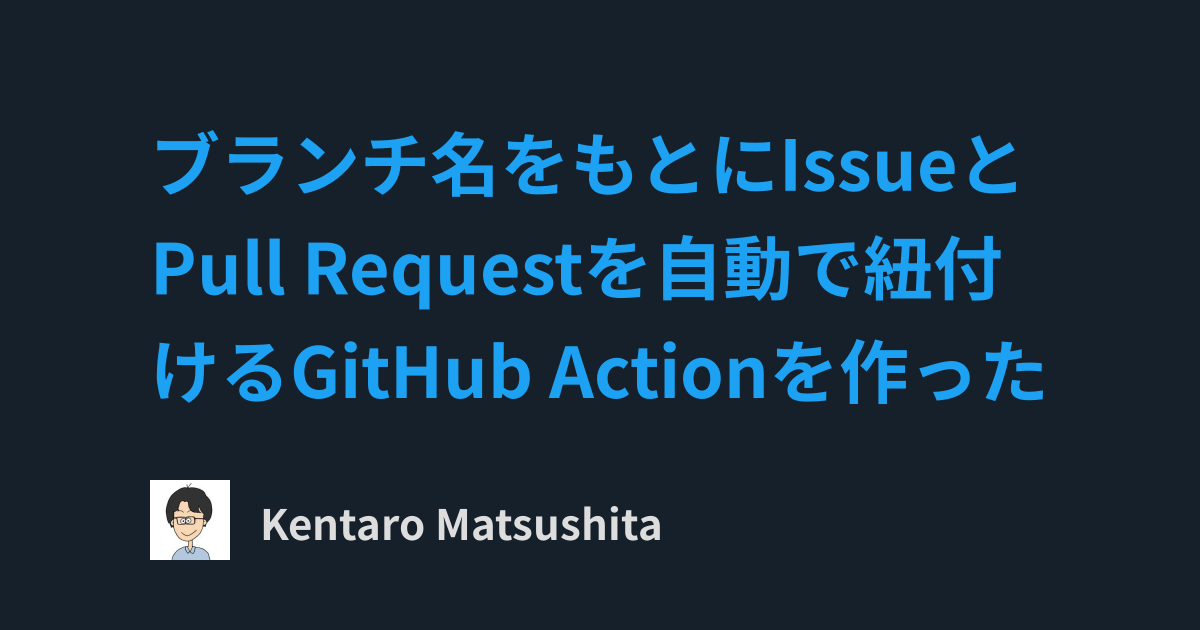
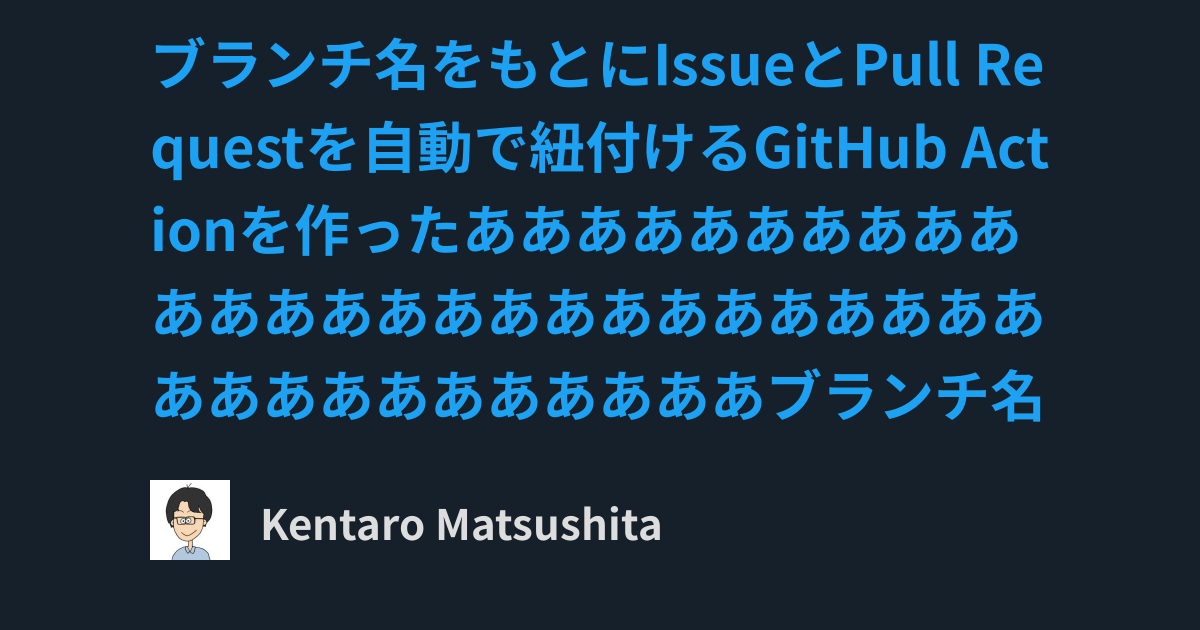
Adjust vertical

diff --git a/src/index.js b/src/index.js
@@ -16,7 +16,7 @@ function calcurateTextIntoRectangle({ ctx, text, style, rect }) {
     })
     // Add support for surrogate-pair.
     let words = [...text]
-    let { paddingVertical, paddingHorizontal } = rect
+    let { paddingHorizontal, paddingTop } = rect
     const lines = []
 
     while (words.length > 0) {
@@ -42,14 +42,14 @@ function calcurateTextIntoRectangle({ ctx, text, style, rect }) {
       lines.push({
         text: slicedText,
         x: paddingHorizontal,
-        y: paddingVertical + textSize.emHeightAscent
+        y: paddingTop + textSize.emHeightAscent
       });
 
       words = words.slice(i);
-      paddingVertical += textSize.emHeightAscent + textSize.emHeightDescent;
+      paddingTop += textSize.emHeightAscent + textSize.emHeightDescent;
     }
 
-    const space = rect.paddingVertical + rect.height - paddingVertical;
+    const space = rect.paddingTop + rect.height - paddingTop;
     if (words.length === 0 && space >= 0) {
       // The title fits into the image with the font size.
       // Vertically centering the text in the given rectangle.
@@ -89,10 +89,11 @@ async function createTwitterCards(options) {
     },
     rect: {
       paddingHorizontal: options.style.title.paddingHorizontal,
-      paddingVertical: options.style.title.paddingVertical,
+      paddingTop: options.style.title.paddingTop,
+      paddingBottom: options.style.title.paddingBottom,
       width: options.image.width - options.style.title.paddingHorizontal * 2,
       height:
-        options.image.height - 300
+        options.image.height - options.style.title.paddingTop - options.style.title.paddingBottom
     }
   })
 
@@ -130,7 +131,8 @@ const config = {
       fontWeight: 'bold',
       fontSize: 72,
       paddingHorizontal: 150,
-      paddingVertical: 100,
+      paddingTop: 0,
+      paddingBottom: 175,
     },
     author: {
       fontColor: '#DDDDDD',
@@ -139,7 +141,7 @@ const config = {
     }
   },
   meta: {
-    title: 'ブランチ名をもとにIssueとPull Requestを自動で紐付けるGitHub Actionを作った',
+    title: 'ブランチ名をもとにIssueとPull Requestを自動で紐付けるGitHub Actionを作ったあああああああああああああああああああああああああああああああああああああブランチ名',
     author: 'Kentaro Matsushita'
   }
 }
